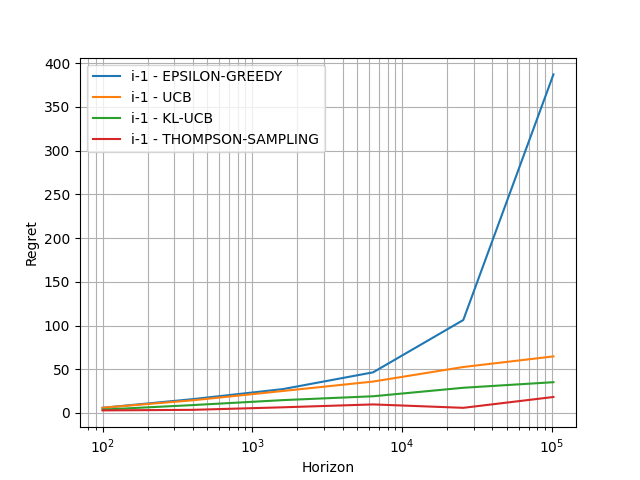
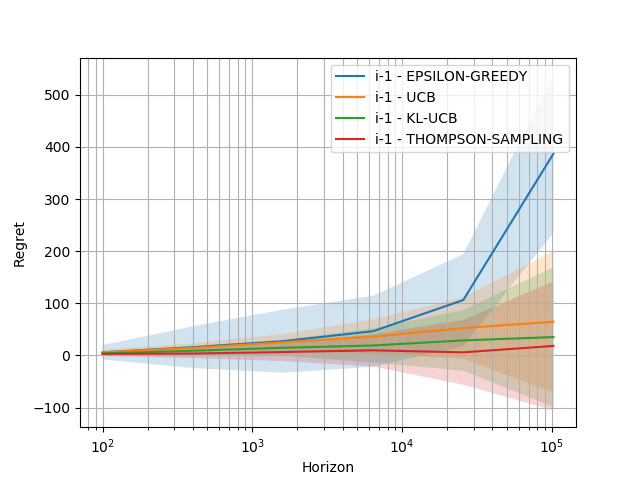
Added mu belief. Need to test it

diff --git a/submission/bandit.py b/submission/bandit.py
@@ -147,6 +147,7 @@ def tSamplingHint(instance, horizon):
     n = mab.actualProb.shape[0]  # number of arms
     HINT = np.sort(mab.actualProb)
     armBelief = np.zeros((n, n)) + (1/n)
+    muBelief = np.zeros((n, n)) + (1/n)
 #    print(armBelief)
     for t in range(horizon):
         probSampling = []
@@ -156,24 +157,47 @@ def tSamplingHint(instance, horizon):
         playArm = np.argmax(probSampling)
         playArmProb = probSampling[playArm]
         # breaking tie
-        commonArms = np.sum(playArmProb==np.array(probSampling))
-        if commonArms!=1:
-            arms = [i for i in range(n) if probSampling[i]==playArmProb]    # indexes whose probSampling is same as max value
+        # commonArms = np.sum(playArmProb==np.array(probSampling))
+        # if commonArms!=1:
+        #     arms = [i for i in range(n) if probSampling[i]==playArmProb]    # indexes whose probSampling is same as max value
+        #     hintValueIndex = [i for i in range(n) if HINT[i]==playArmProb][0]
+        #     prob_of_sampling = np.array([armBelief[i][hintValueIndex] for i in arms])
+        #     prob_of_sampling = prob_of_sampling / np.sum(prob_of_sampling)
+        #     # playArmIndex = np.argmax(prob_of_sampling)
+        #     playArmIndex = np.random.choice(arms, p=prob_of_sampling)
+        #     playArm = arms[arms.index(playArmIndex)]
+
+        # breaking ties with another tSampling
+        commonArms = np.sum(playArmProb == np.array(probSampling))
+        hintValueIndex = -1
+        if commonArms == 1:
             hintValueIndex = [i for i in range(n) if HINT[i]==playArmProb][0]
-            prob_of_sampling = np.array([armBelief[i][hintValueIndex] for i in arms])
+        else:
+            arms = [i for i in range(n) if
+                    probSampling[i] == playArmProb]  # indexes whose probSampling is same as max value
+            hintValueIndex = [i for i in range(n) if HINT[i]==playArmProb][0]
+            prob_of_sampling = np.array([muBelief[hintValueIndex][i] for i in arms])
             prob_of_sampling = prob_of_sampling / np.sum(prob_of_sampling)
             # playArmIndex = np.argmax(prob_of_sampling)
             playArmIndex = np.random.choice(arms, p=prob_of_sampling)
             playArm = arms[arms.index(playArmIndex)]
+
+        # arm to play finalized. Now updating the beliefs
         reward = mab.sampleRewardAndUpdate(playArm)
         for i in range(n):
             p = armBelief[playArm][i]
             q = HINT[i]
+            p1 = muBelief[hintValueIndex][i]
+            muBelief[hintValueIndex][i] = armBelief[i][hintValueIndex] * p1
             armBelief[playArm][i] = p * ((q**reward)*((1-q)**(1-reward)))
+            # muBelief[hintValueIndex][i] = p1 * ((q**reward)*((1-q)**(1-reward)))
         armBelief[playArm][:] = armBelief[playArm][:] / np.sum(armBelief[playArm][:])
+        muBelief[hintValueIndex][:] = muBelief[hintValueIndex][:] / np.sum(muBelief[hintValueIndex][:])
         # if t%20==0:
         #     print(armBelief, reward, "\n")
     REG = (horizon * max(mab.actualProb)) - sum(mab.rewards)
+    print("armBelief:\n", armBelief)
+    print("muBelief:\n", muBelief)
 #    print(armBelief, REG)
     return REG
 
@@ -206,8 +230,8 @@ elif algo == "thompson-sampling-with-hint":
     REG = tSamplingHint(params['instance'], params['horizon'])
     # file.write(f"{params['instance']},{algo},{args.randomSeed},{params['epsilon']},{params['horizon']},{REG}\n")
 
-file = open("outputDataT3-v1.txt", "a+")
-file.write(f"{params['instance']}, {algo}, {args.randomSeed}, {params['epsilon']}, {params['horizon']}, {REG}\n")
-file.close()
-# print(f"{params['instance']}, {algo}, {args.randomSeed}, {params['epsilon']}, {params['horizon']}, {REG}\n")
+# file = open("outputDataT2-v1.txt", "a+")
+# file.write(f"{params['instance']}, {algo}, {args.randomSeed}, {params['epsilon']}, {params['horizon']}, {REG}\n")
+# file.close()
+print(f"{params['instance']}, {algo}, {args.randomSeed}, {params['epsilon']}, {params['horizon']}, {REG}\n")
 

diff --git a/submission/plots/plot.py b/submission/plots/plot.py
@@ -4,9 +4,9 @@ from collections import defaultdict
 import matplotlib.pyplot as plt
 import numpy as np
 
-file = '../outputDataT1.txt'
-algos = ['epsilon-greedy', 'ucb', 'kl-ucb', 'thompson-sampling']
-# algos = ['thompson-sampling', 'thompson-sampling-with-hint']
+file = '../outputDataT2.txt'
+# algos = ['epsilon-greedy', 'ucb', 'kl-ucb', 'thompson-sampling']
+algos = ['thompson-sampling', 'thompson-sampling-with-hint']
 d1, d2, d3 = {}, {}, {}
 for i in range(len(algos)):
     d1[algos[i]] = defaultdict(list)
@@ -24,8 +24,8 @@ with open(file, 'r') as f:
         horizon = int(values[4]); regret = float(values[5][:-1])
         if algo in algos:
             regrets[instance][algo][horizon].append(regret)
-    print(regrets)
-    print(len(regrets['../instances/i-1.txt'][algos[0]][100]))
+    # print(regrets)
+    # print(len(regrets['../instances/i-1.txt'][algos[0]][100]))
     for ins in regrets.keys():
         for algo in algos:
             for h in regrets[ins][algo].keys():
@@ -35,24 +35,25 @@ with open(file, 'r') as f:
 def plot(instance, regrets):
     for i in range(len(algos)):
         means = [regrets[instance][algos[i]][k][0] for k in regrets[instance][algos[i]].keys()]
+        print(means)
         var = [regrets[instance][algos[i]][k][1] for k in regrets[instance][algos[i]].keys()]
         means = np.array(means); var = np.array(var)
         plt.plot(list(regrets[instance][algos[i]].keys()),
                  means, label=f'{instance.split("/")[-1].split(".")[0]} - {algos[i].upper()}')
-        # plt.fill_between(list(regrets['../instances/i-1.txt'][algos[i]].keys()),
-        #                  means + var, means - var, alpha=0.2)
+        plt.fill_between(list(regrets['../instances/i-1.txt'][algos[i]].keys()),
+                         means + var, means - var, alpha=0.2)
     plt.legend(loc='best')
     plt.xlabel('Horizon')
     plt.ylabel('Regret')
     plt.xscale('log')
     plt.grid(True, which="both")
-    plt.savefig(f'{file.split(".")[-2][-1]}-{instance.split("/")[-1].split(".")[0]}.png')
+    # plt.savefig(f'{file.split(".")[-2][-1]}-{instance.split("/")[-1].split(".")[0]}.png')
     plt.show()
 
 
 # plot('../instances/i-1.txt', regrets)
-# plot('../instances/i-2.txt', regrets)
-plot('../instances/i-3.txt', regrets)
+plot('../instances/i-2.txt', regrets)
+# plot('../instances/i-3.txt', regrets)
 
 '''
 for i in range(len(algos)):
